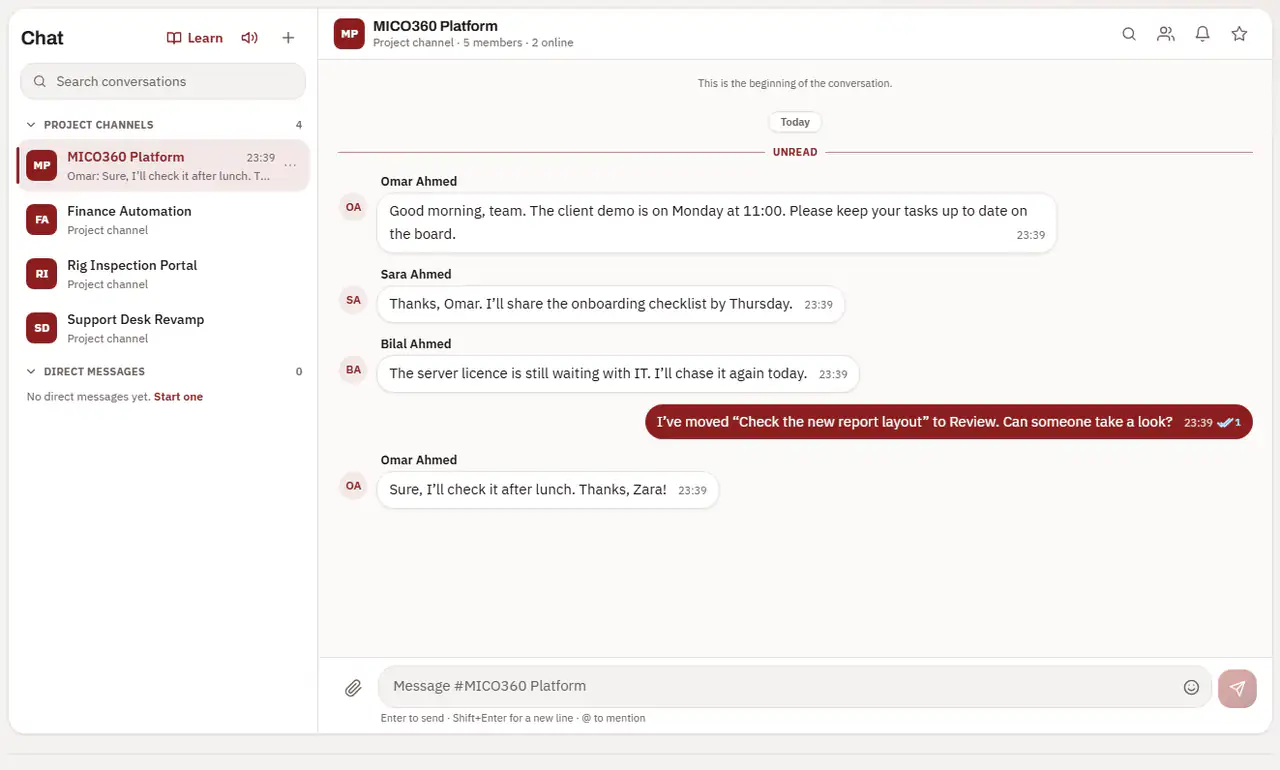
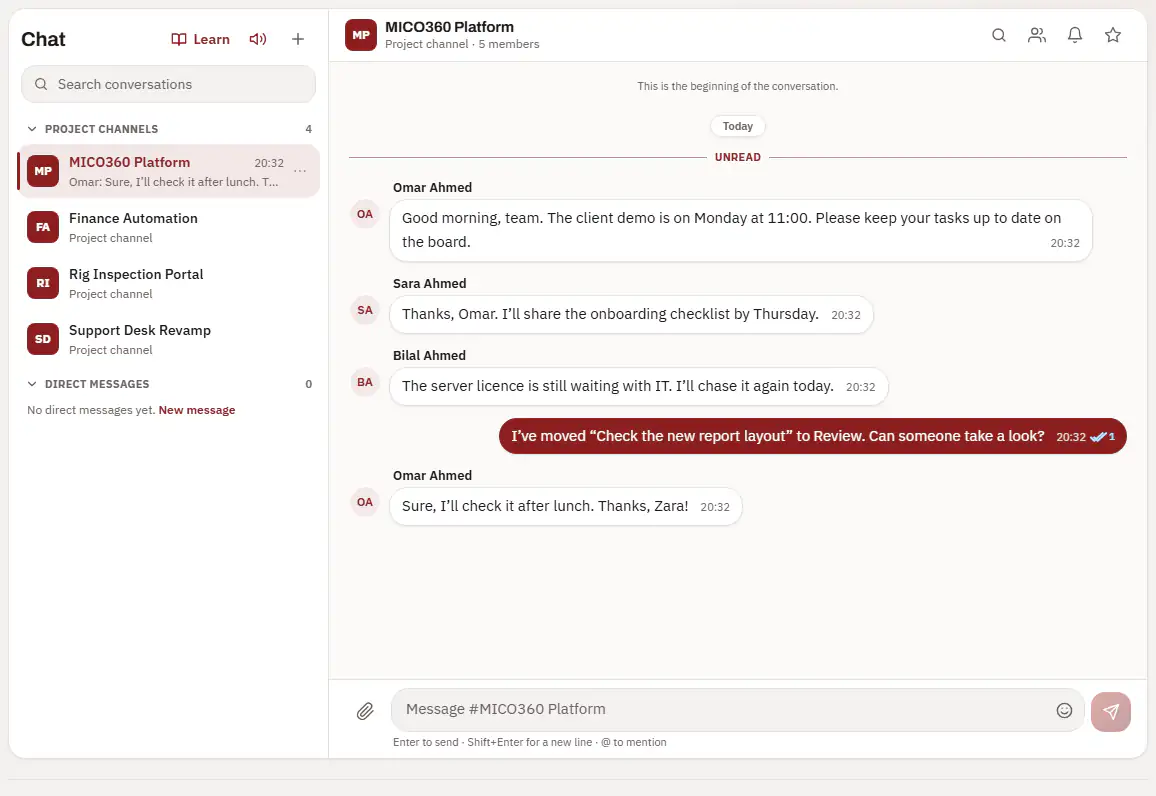
Learning Hub course: Chat's Open Chat picture retaken on 1.23.29 (New message, not Start one), with a description that matches it (1.23.32)

diff --git a/Web Portal/backend/src/modules/training/starter/starter-courses.ts b/Web Portal/backend/src/modules/training/starter/starter-courses.ts
@@ -847,7 +847,7 @@ const chat: StarterLesson[] = [
         title: 'Open Chat',
         body: '<p>Click <strong>Chat</strong> in the side menu. A red number on it means you have unread messages. Every project has its own channel under <strong>Project channels</strong>; one-to-one talks are under <strong>Direct messages</strong>.</p>',
         image: 'chat-channel.webp',
-        alt: 'Chat with a project channel open: messages from four colleagues, and the message box at the bottom.',
+        alt: 'Chat with a project channel open: messages from three colleagues and one of yours, the Project channels and Direct messages lists, and the message box at the bottom.',
       },
       {
         title: 'Send a message',
